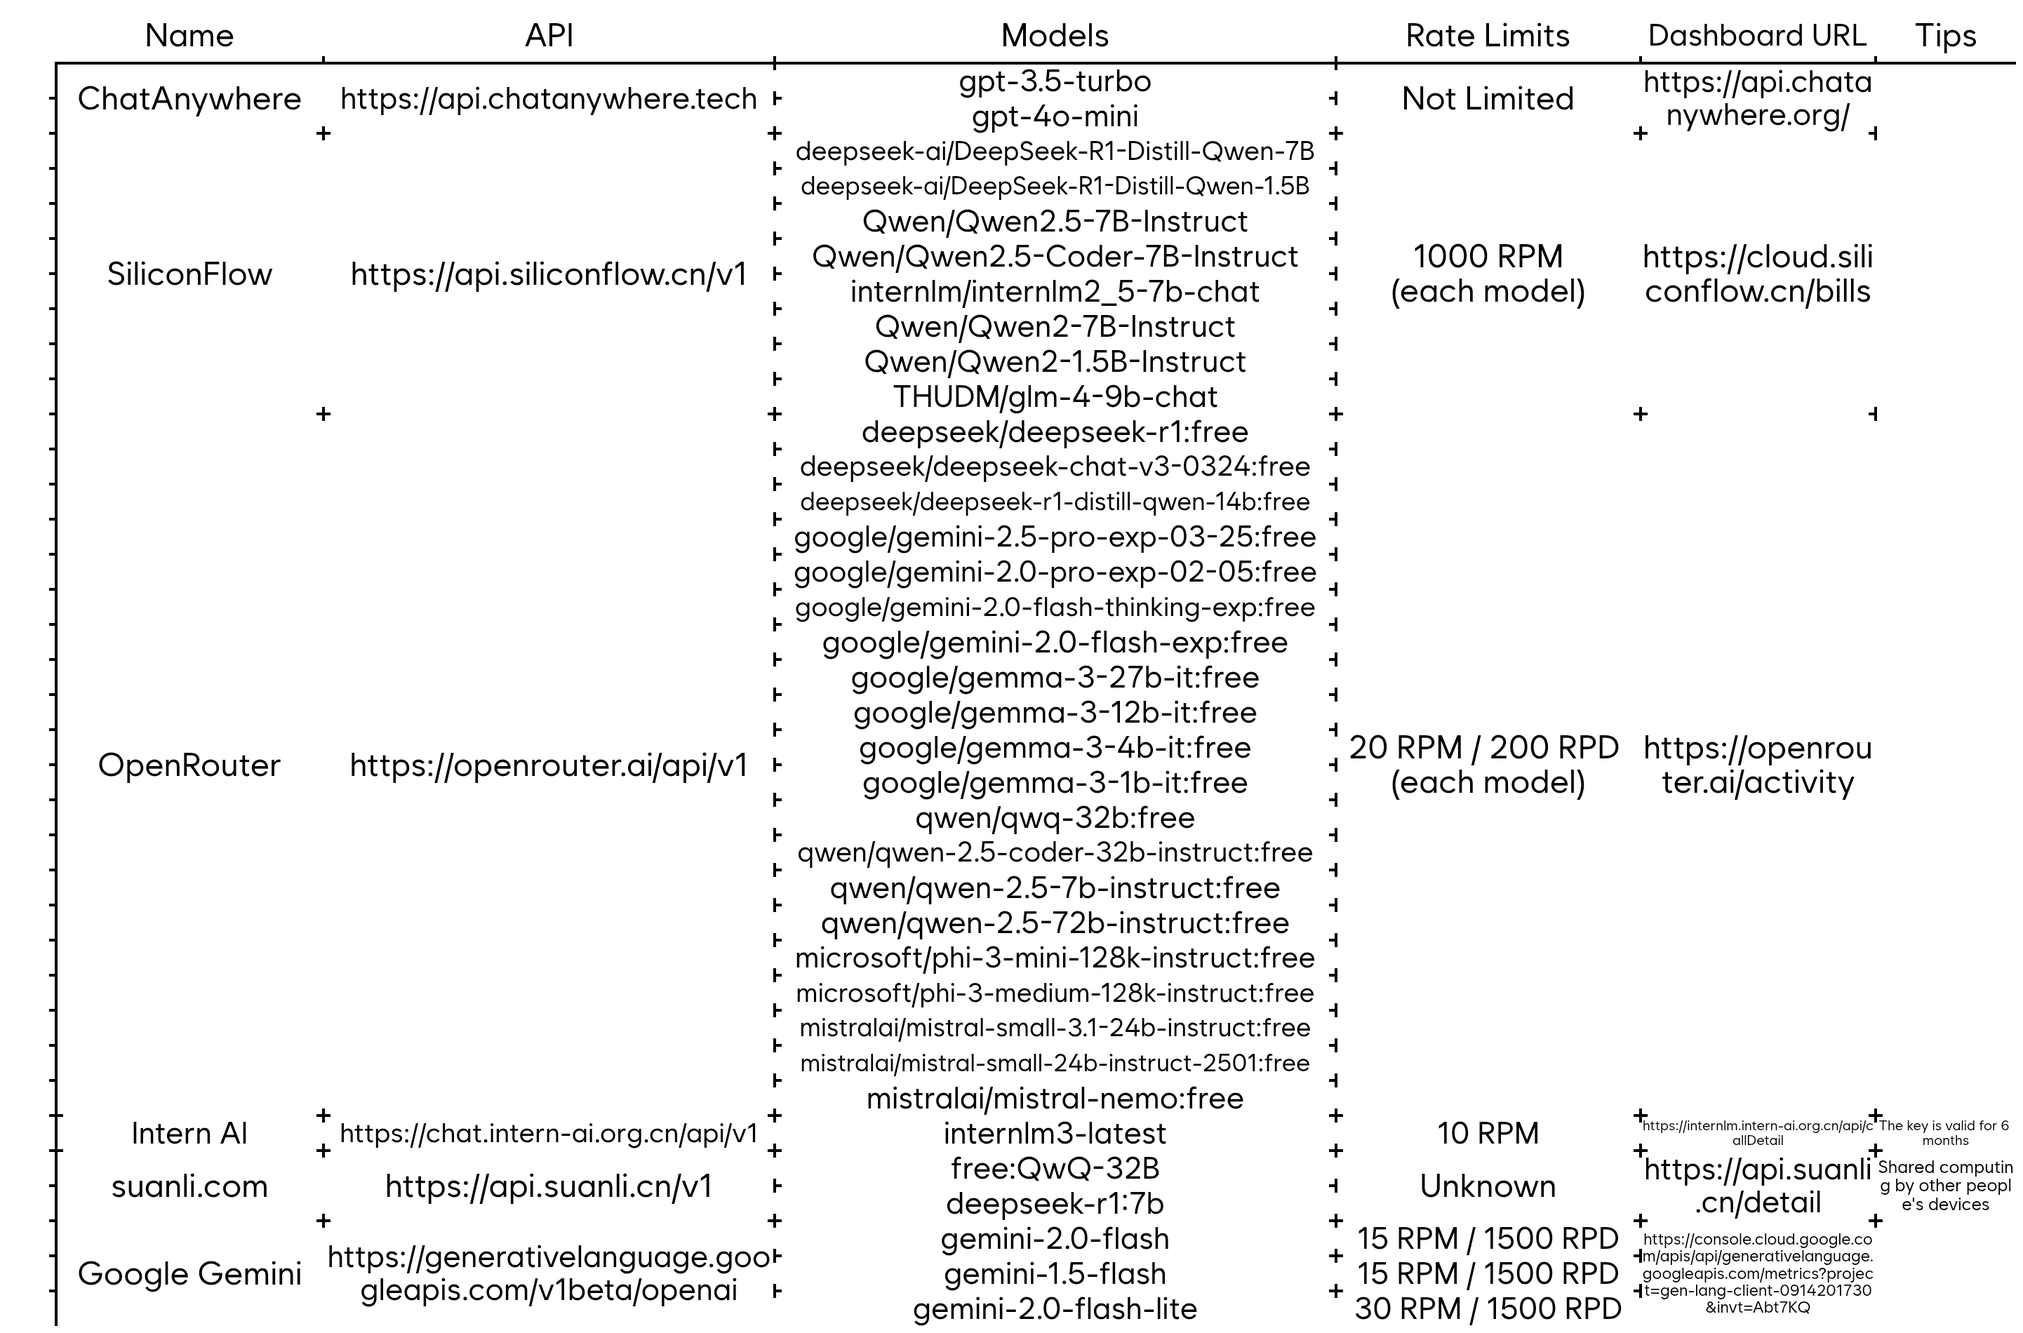
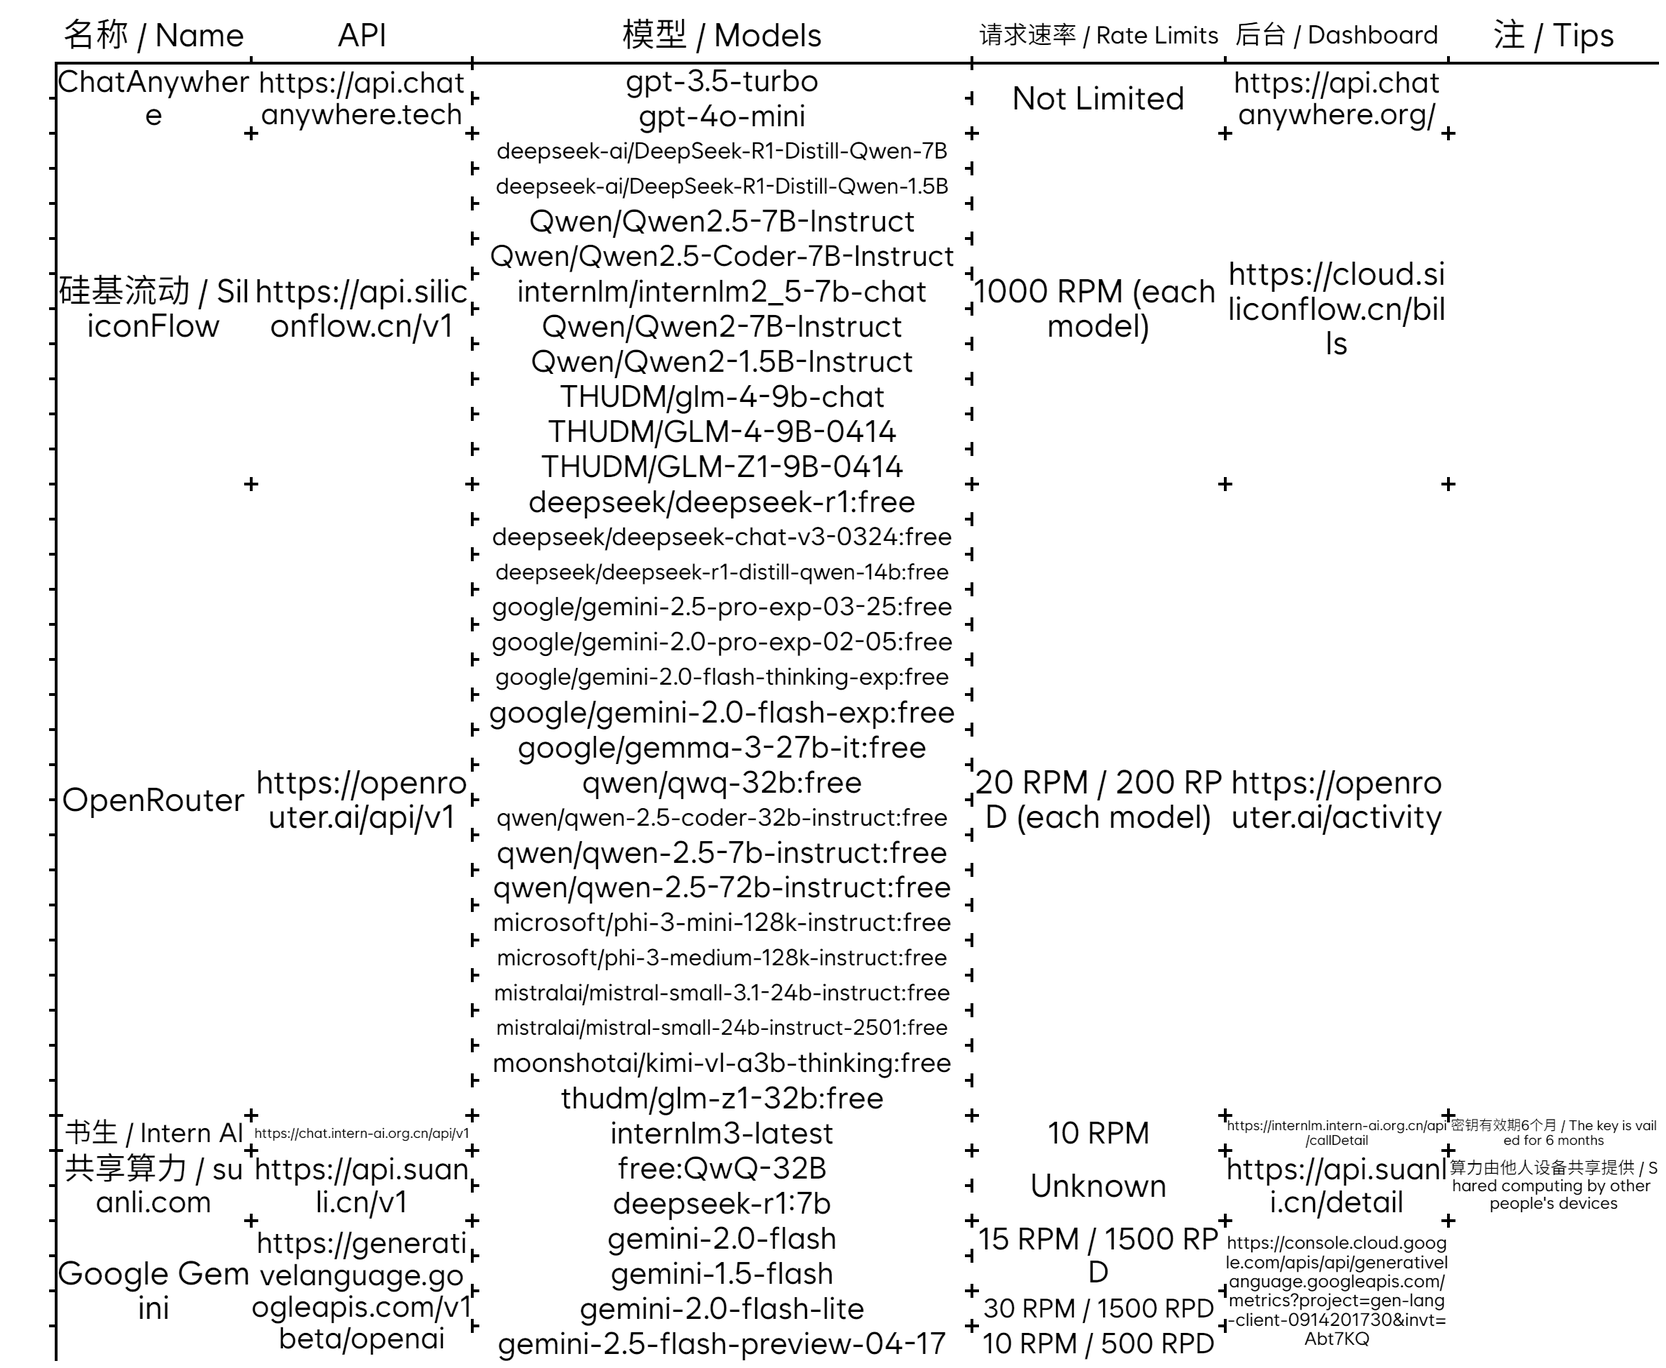
Add files via upload

Changed region(s): [[0.0312, 0.0, 0.9975, 0.9937]]

diff --git a/README.md b/README.md
@@ -18,12 +18,13 @@ This table was generated by Gemini 2.5 Pro,. Rendered by [Taple](https://ftz-too
 
 ## Markdown table
 
-| 名称 / Name          | API                                                       | 模型 / Models                                                                                                                                                                                                                                                                                                                                                                                                                                                                                                                                                                                                                                                                                                                                       | 请求速率 / Rate Limits            | 后台 / Dashboard                                                                                                                       | 注 / Tips                                                 |
-|:------------------:|:--------------------------------------------------------- |:-------------------------------------------------------------------------------------------------------------------------------------------------------------------------------------------------------------------------------------------------------------------------------------------------------------------------------------------------------------------------------------------------------------------------------------------------------------------------------------------------------------------------------------------------------------------------------------------------------------------------------------------------------------------------------------------------------------------------------------------------:|:-----------------------------:|:------------------------------------------------------------------------------------------------------------------------------------ |:-------------------------------------------------------- |
-| ChatAnywhere       | `https://api.chatanywhere.tech`                           | `gpt-3.5-turbo` `gpt-4o-mini`                                                                                                                                                                                                                                                                                                                                                                                                                                                                                                                                                                                                                                                                                                                     | Not Limited                   | `https://api.chatanywhere.org/`                                                                                                      |                                                          |
-| 硅基流动 / SiliconFlow | `https://api.siliconflow.cn/v1`                           | `deepseek-ai/DeepSeek-R1-Distill-Qwen-7B` `deepseek-ai/DeepSeek-R1-Distill-Qwen-1.5B` `Qwen/Qwen2.5-7B-Instruct` `Qwen/Qwen2.5-Coder-7B-Instruct` `internlm/internlm2_5-7b-chat` `Qwen/Qwen2-7B-Instruct` `Qwen/Qwen2-1.5B-Instruct` `THUDM/glm-4-9b-chat`                                                                                                                                                                                                                                                                                                                                                                                                                                                                                        | 1000 RPM (each model)         | `https://cloud.siliconflow.cn/bills`                                                                                                 |                                                          |
-| OpenRouter         | `https://openrouter.ai/api/v1`                            | `deepseek/deepseek-r1:free` `deepseek/deepseek-chat-v3-0324:free` `deepseek/deepseek-r1-distill-qwen-14b:free` `google/gemini-2.5-pro-exp-03-25:free` `google/gemini-2.0-pro-exp-02-05:free` `google/gemini-2.0-flash-thinking-exp:free` `google/gemini-2.0-flash-exp:free` `google/gemma-3-27b-it:free` `google/gemma-3-12b-it:free` `google/gemma-3-4b-it:free` `google/gemma-3-1b-it:free` `qwen/qwq-32b:free` `qwen/qwen-2.5-coder-32b-instruct:free` `qwen/qwen-2.5-7b-instruct:free` `qwen/qwen-2.5-72b-instruct:free` `microsoft/phi-3-mini-128k-instruct:free` `microsoft/phi-3-medium-128k-instruct:free` `mistralai/mistral-small-3.1-24b-instruct:free` `mistralai/mistral-small-24b-instruct-2501:free` `mistralai/mistral-nemo:free` | 20 RPM / 200 RPD (each model) | `https://openrouter.ai/activity`                                                                                                     |                                                          |
-| 书生 / Intern AI     | `https://chat.intern-ai.org.cn/api/v1`                    | `internlm3-latest`                                                                                                                                                                                                                                                                                                                                                                                                                                                                                                                                                                                                                                                                                                                                | 10 RPM                        | `https://internlm.intern-ai.org.cn/api/callDetail`                                                                                   | 密钥有效期6个月 / The key is vailed for 6 months                |
-| 共享算力 / suanli.com  | `https://api.suanli.cn/v1`                                | `free:QwQ-32B` `deepseek-r1:7b`                                                                                                                                                                                                                                                                                                                                                                                                                                                                                                                                                                                                                                                                                                                   | Unknown                       | `https://api.suanli.cn/detail`                                                                                                       | 算力由他人设备共享提供 / Shared computing by other people's devices |
-| Google Gemini      | `https://generativelanguage.googleapis.com/v1beta/openai` | `gemini-2.0-flash` `gemini-1.5-flash`                                                                                                                                                                                                                                                                                                                                                                                                                                                                                                                                                                                                                                                                                                             | 15 RPM / 1500 RPD             | `https://console.cloud.google.com/apis/api/generativelanguage.googleapis.com/metrics?project=gen-lang-client-0914201730&invt=Abt7KQ` |                                                          |
-| Google Gemini      | `https://generativelanguage.googleapis.com/v1beta/openai` | `gemini-2.0-flash-lite`                                                                                                                                                                                                                                                                                                                                                                                                                                                                                                                                                                                                                                                                                                                           | 30 RPM / 1500 RPD             | `https://console.cloud.google.com/apis/api/generativelanguage.googleapis.com/metrics?project=gen-lang-client-0914201730&invt=Abt7KQ` |                                                          |
+| 名称 / Name          | API                                                       | 模型 / Models                                                                                                                                                                                                                                                                                                                                                                                                                                                                                                                                                                                                                                                                                   | 请求速率 / Rate Limits            | 后台 / Dashboard                                                                                                                       | 注 / Tips                                                 |
+|:------------------:|:--------------------------------------------------------- |:---------------------------------------------------------------------------------------------------------------------------------------------------------------------------------------------------------------------------------------------------------------------------------------------------------------------------------------------------------------------------------------------------------------------------------------------------------------------------------------------------------------------------------------------------------------------------------------------------------------------------------------------------------------------------------------------:|:-----------------------------:|:------------------------------------------------------------------------------------------------------------------------------------ |:-------------------------------------------------------- |
+| ChatAnywhere       | `https://api.chatanywhere.tech`                           | `gpt-3.5-turbo` `gpt-4o-mini`                                                                                                                                                                                                                                                                                                                                                                                                                                                                                                                                                                                                                                                                 | Not Limited                   | `https://api.chatanywhere.org/`                                                                                                      |                                                          |
+| 硅基流动 / SiliconFlow | `https://api.siliconflow.cn/v1`                           | `deepseek-ai/DeepSeek-R1-Distill-Qwen-7B` `deepseek-ai/DeepSeek-R1-Distill-Qwen-1.5B` `Qwen/Qwen2.5-7B-Instruct` `Qwen/Qwen2.5-Coder-7B-Instruct` `internlm/internlm2_5-7b-chat` `Qwen/Qwen2-7B-Instruct` `Qwen/Qwen2-1.5B-Instruct` `THUDM/glm-4-9b-chat``THUDM/GLM-4-9B-0414``THUDM/GLM-Z1-9B-0414`                                                                                                                                                                                                                                                                                                                                                                                         | 1000 RPM (each model)         | `https://cloud.siliconflow.cn/bills`                                                                                                 |                                                          |
+| OpenRouter         | `https://openrouter.ai/api/v1`                            | `deepseek/deepseek-r1:free` `deepseek/deepseek-chat-v3-0324:free` `deepseek/deepseek-r1-distill-qwen-14b:free` `google/gemini-2.5-pro-exp-03-25:free` `google/gemini-2.0-pro-exp-02-05:free` `google/gemini-2.0-flash-thinking-exp:free` `google/gemini-2.0-flash-exp:free` `google/gemma-3-27b-it:free` `qwen/qwq-32b:free` `qwen/qwen-2.5-coder-32b-instruct:free` `qwen/qwen-2.5-7b-instruct:free` `qwen/qwen-2.5-72b-instruct:free` `microsoft/phi-3-mini-128k-instruct:free` `microsoft/phi-3-medium-128k-instruct:free` `mistralai/mistral-small-3.1-24b-instruct:free` `mistralai/mistral-small-24b-instruct-2501:free``moonshotai/kimi-vl-a3b-thinking:free``thudm/glm-z1-32b:free``` | 20 RPM / 200 RPD (each model) | `https://openrouter.ai/activity`                                                                                                     |                                                          |
+| 书生 / Intern AI     | `https://chat.intern-ai.org.cn/api/v1`                    | `internlm3-latest`                                                                                                                                                                                                                                                                                                                                                                                                                                                                                                                                                                                                                                                                            | 10 RPM                        | `https://internlm.intern-ai.org.cn/api/callDetail`                                                                                   | 密钥有效期6个月 / The key is vailed for 6 months                |
+| 共享算力 / suanli.com  | `https://api.suanli.cn/v1`                                | `free:QwQ-32B` `deepseek-r1:7b`                                                                                                                                                                                                                                                                                                                                                                                                                                                                                                                                                                                                                                                               | Unknown                       | `https://api.suanli.cn/detail`                                                                                                       | 算力由他人设备共享提供 / Shared computing by other people's devices |
+| Google Gemini      | `https://generativelanguage.googleapis.com/v1beta/openai` | `gemini-2.0-flash` `gemini-1.5-flash`                                                                                                                                                                                                                                                                                                                                                                                                                                                                                                                                                                                                                                                         | 15 RPM / 1500 RPD             | `https://console.cloud.google.com/apis/api/generativelanguage.googleapis.com/metrics?project=gen-lang-client-0914201730&invt=Abt7KQ` |                                                          |
+| Google Gemini      | `https://generativelanguage.googleapis.com/v1beta/openai` | `gemini-2.0-flash-lite`                                                                                                                                                                                                                                                                                                                                                                                                                                                                                                                                                                                                                                                                       | 30 RPM / 1500 RPD             | `https://console.cloud.google.com/apis/api/generativelanguage.googleapis.com/metrics?project=gen-lang-client-0914201730&invt=Abt7KQ` |                                                          |
+| Google Gemini      | `https://generativelanguage.googleapis.com/v1beta/openai` | `gemini-2.5-flash-preview-04-17`                                                                                                                                                                                                                                                                                                                                                                                                                                                                                                                                                                                                                                                              | 10 RPM / 500 RPD              | `https://console.cloud.google.com/apis/api/generativelanguage.googleapis.com/metrics?project=gen-lang-client-0914201730&invt=Abt7KQ` |                                                          |
